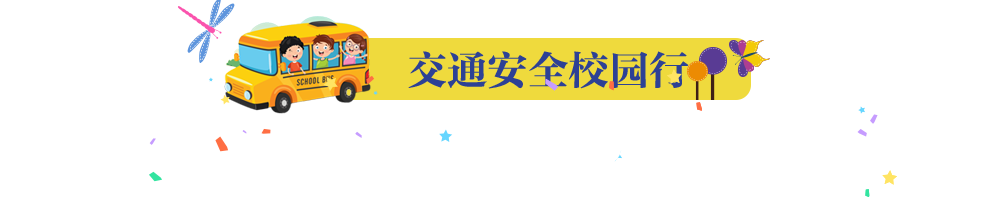
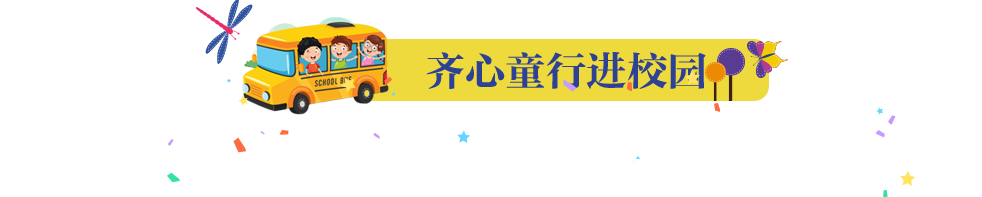
fix 2152

diff --git a/广发瑞选/index.html b/广发瑞选/index.html
@@ -50,7 +50,7 @@
                 <a
                   href="images/basic/list_2.docx"
                   download="广发睿选三年宣传短信"
-                  >广发睿选三年宣传短信</a
+                  >宣传短信</a
                 >
               </li>
               <li>
@@ -143,6 +143,14 @@
                 <a href="hb.html?url=imagesXproductXlist_12Ppng&name=资深老将">
                   <img src="images/product/list_12.png" />
                   <div class="text-bg">资深老将</div>
+                </a>
+              </li>
+              <li>
+                <a
+                  href="hb.html?url=imagesXproductXlist_13Pjpg&name=策略五虎团队"
+                >
+                  <img src="images/product/list_13.jpg" />
+                  <div class="text-bg">策略五虎团队</div>
                 </a>
               </li>
             </ul>

diff --git a/miqilin-mobile/index.html b/miqilin-mobile/index.html
@@ -28,7 +28,7 @@
           <a href="javascript:" class="bg1 comm-desc-btn">活动介绍</a>
           <a href="javascript:" data-index="3" class="bg1">安全小课堂</a>
           <a href="javascript:" data-index="2" class="bg1">童画征集</a>
-          <a href="javascript:" data-index="4" class="bg1">交通安全校园行</a>
+          <a href="javascript:" data-index="4" class="bg1">齐心童行进校园</a>
           <a href="javascript:" data-index="1" class="bg1">持续行动</a>
           <a href="javascript:" class="bg2">敬请期待</a>
         </div>

diff --git a/miqilin-pc/index.html b/miqilin-pc/index.html
@@ -21,7 +21,7 @@
           >
           <a href="javascript:" data-index="3" class="bg1">安全小课堂</a>
           <a href="javascript:" data-index="2" class="bg1">童画征集</a>
-          <a href="javascript:" data-index="4" class="bg1">交通安全校园行</a>
+          <a href="javascript:" data-index="4" class="bg1">齐心童行进校园</a>
           <a href="javascript:" data-index="1" class="bg1">持续行动</a>
           <a href="javascript:" class="bg2">敬请期待</a>
         </div>
